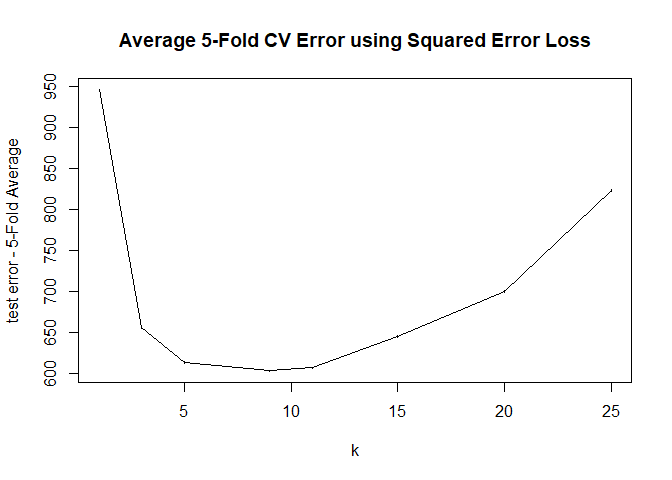
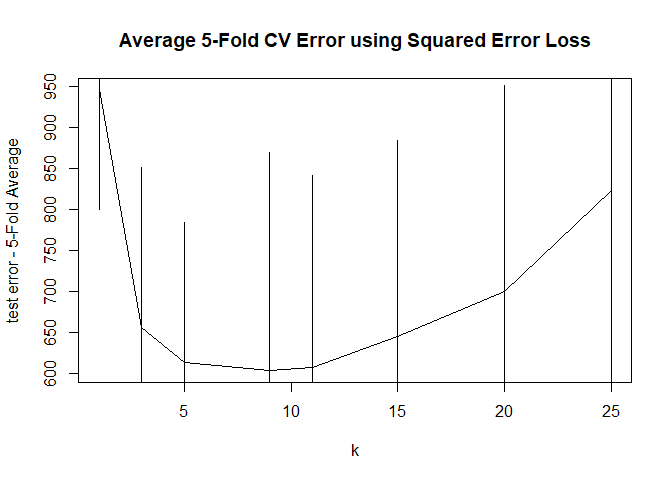
Added segments

diff --git a/Homework-5/homework5_machinelearning_SriramK.md b/Homework-5/homework5_machinelearning_SriramK.md
@@ -449,8 +449,7 @@ of the five estimates from each fold).
 
 ``` r
 plot(k_param, cvvers_mean, xlab="k", ylab="test error - 5-Fold Average", type = "l", main = "Average 5-Fold CV Error using Squared Error Loss")
-sd <- 1
-segments(k_param,cvvers_mean-sd,k_param,cvvers_mean+sd)
+segments(x0 = k_param,x1 = k_param,y0 = cvvers_mean-cvvers_sd,y1 = cvvers_mean+cvvers_sd)
 ```
 
 ![](homework5_machinelearning_SriramK_files/figure-gfm/unnamed-chunk-9-1.png)<!-- -->
